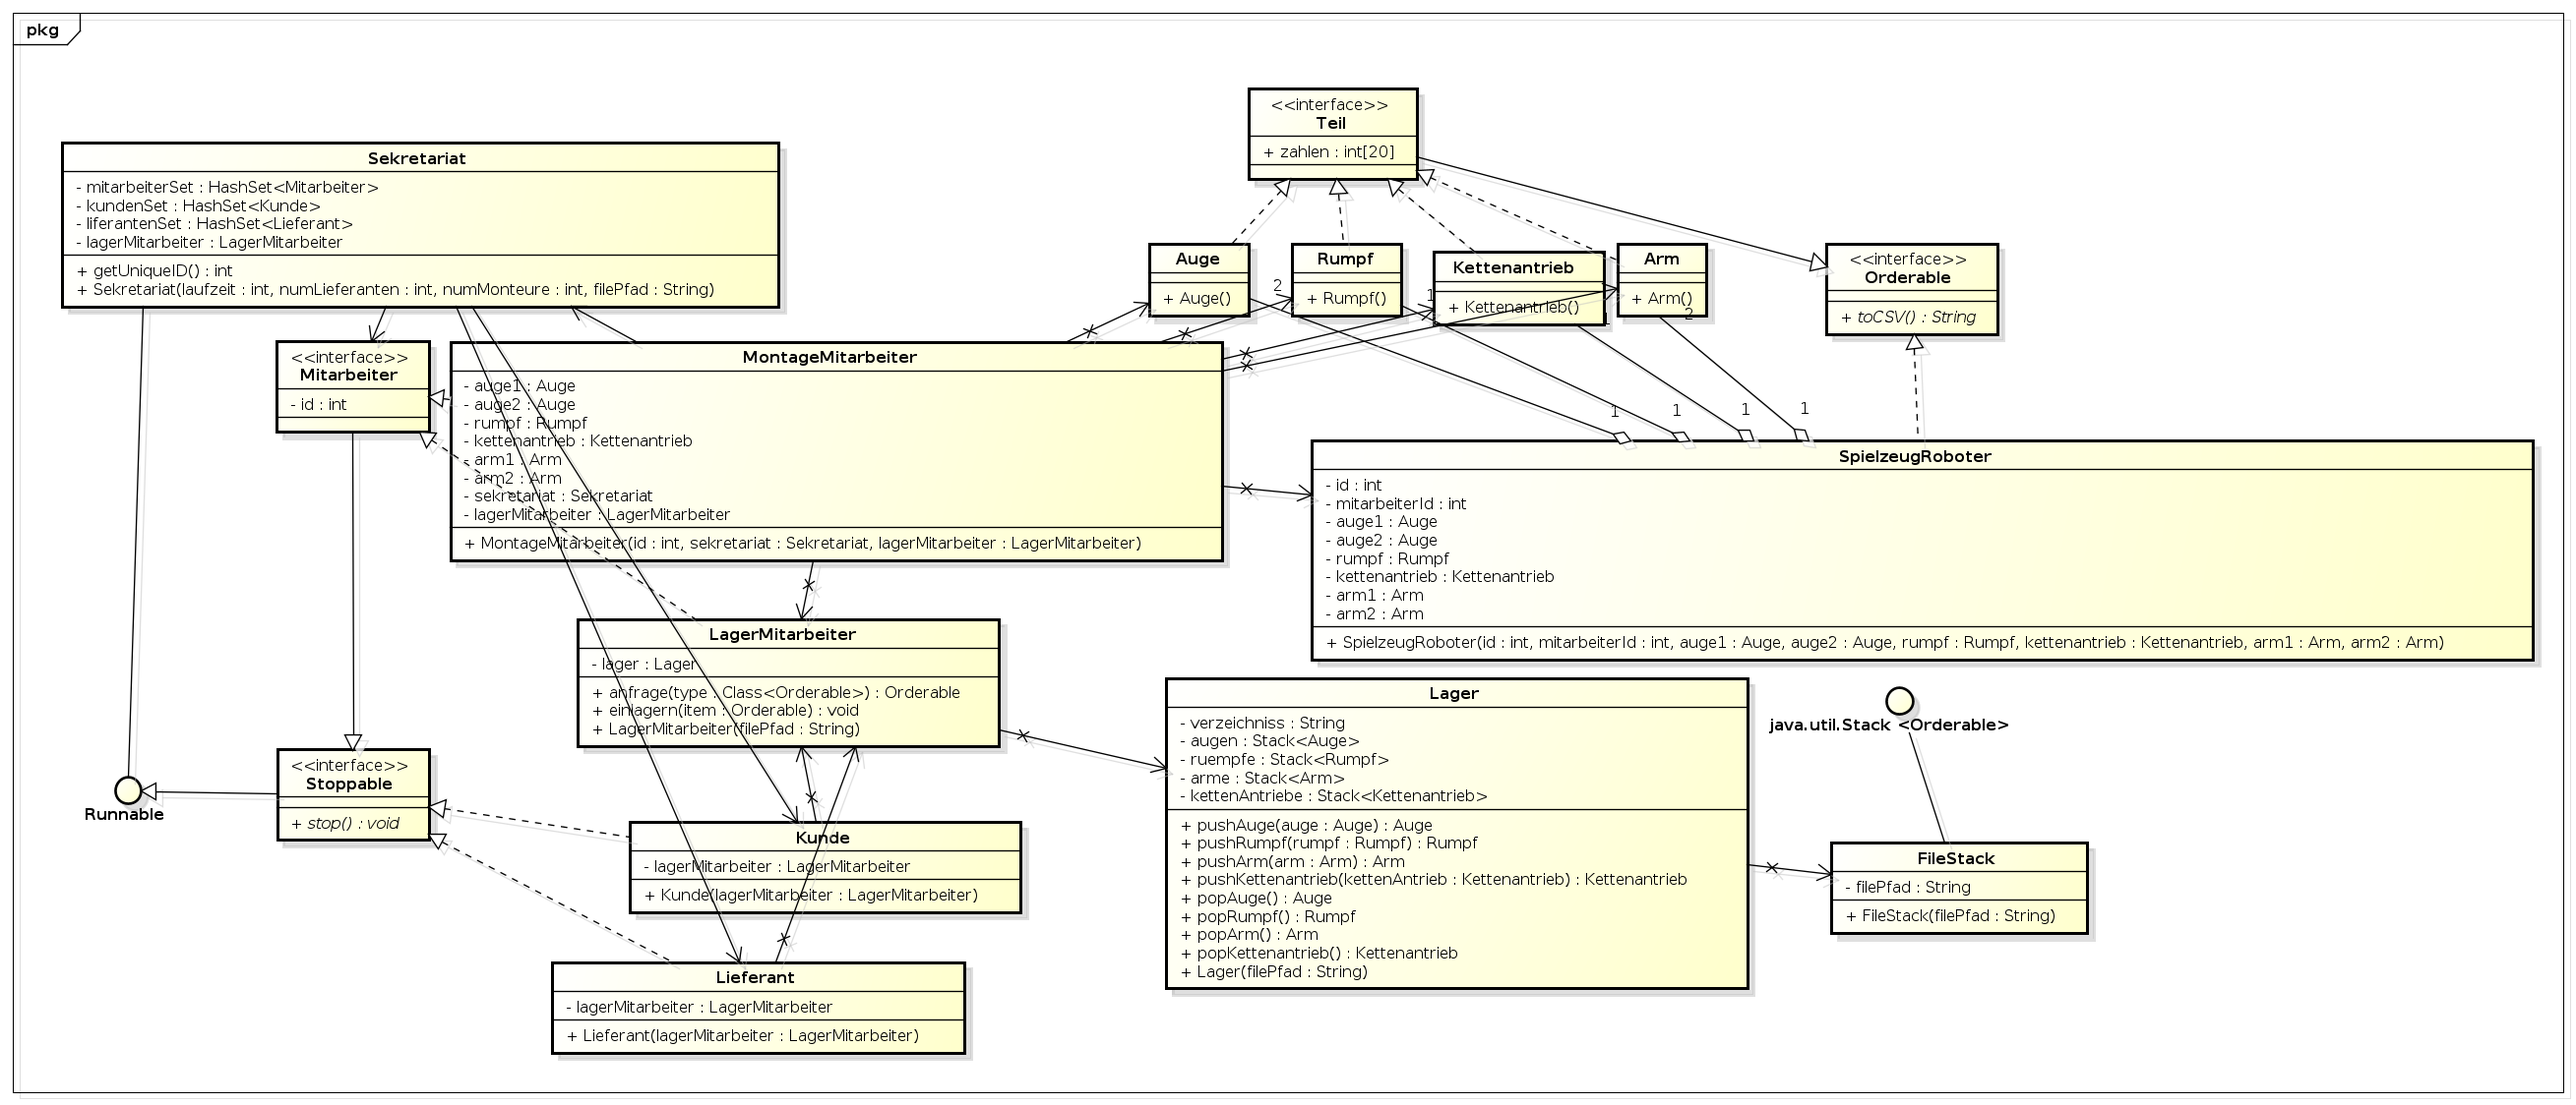
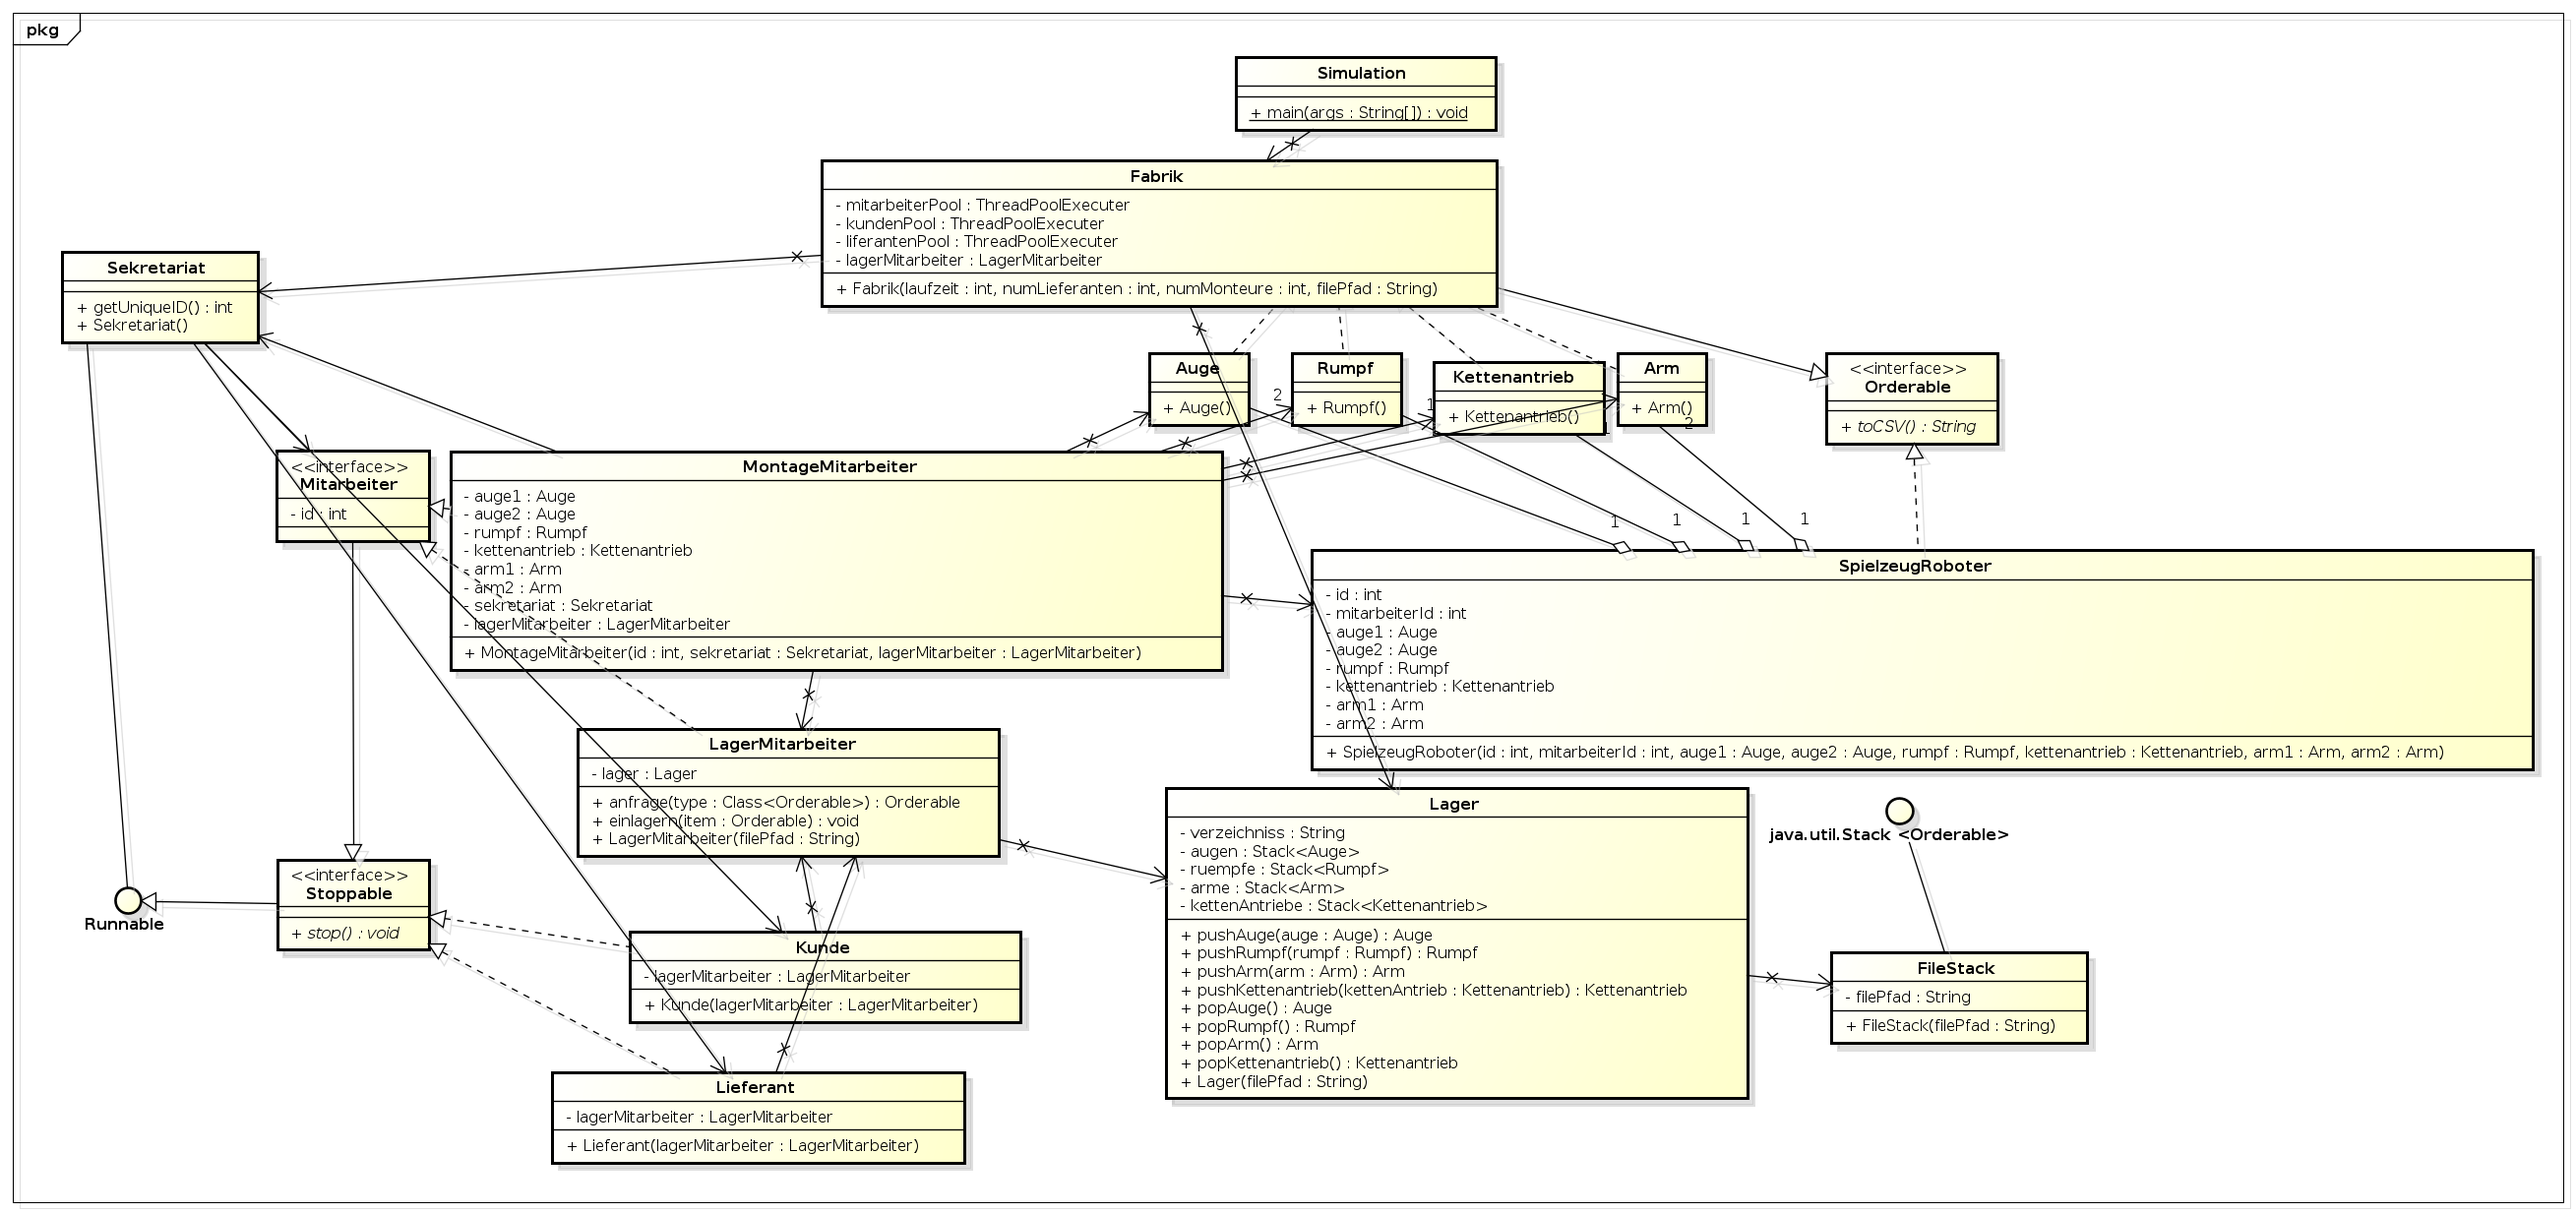
Fabrik und Simulation hinzugefügt

Changed region(s): [[0.0, 0.0, 0.9901, 0.9653], [0.0309, 0.6539, 0.1856, 0.8096], [0.6807, 0.7473, 0.8354, 0.8719]]

diff --git a/src/tgm/sew/roboterfabrik/Fabrik.java b/src/tgm/sew/roboterfabrik/Fabrik.java
@@ -1,0 +1,23 @@
+package tgm.sew.roboterfabrik;
+
+import java.util.concurrent.ThreadPoolExecuter;
+
+public class Fabrik {
+
+	private ThreadPoolExecuter mitarbeiterPool;
+
+	private ThreadPoolExecuter kundenPool;
+
+	private ThreadPoolExecuter liferantenPool;
+
+	private LagerMitarbeiter lagerMitarbeiter;
+
+	private Sekretariat sekretariat;
+
+	private Lager lager;
+
+	public Fabrik(int laufzeit, int numLieferanten, int numMonteure, String filePfad) {
+
+	}
+
+}

diff --git a/src/tgm/sew/roboterfabrik/Simulation.java b/src/tgm/sew/roboterfabrik/Simulation.java
@@ -1,0 +1,11 @@
+package tgm.sew.roboterfabrik;
+
+public class Simulation {
+
+	private Fabrik fabrik;
+
+	public static void main(String args) {
+
+	}
+
+}

diff --git a/zeitaufzeichnung_jklepp.rst b/zeitaufzeichnung_jklepp.rst
@@ -1,3 +1,4 @@
-Uml-Session	2013-09-20	16:00	18:40
-Uml-Session2	2013-09-26	13:30	14:30
-JavaDocs        2013-09-26      14:40   16:40
+Uml-Session		2013-09-20	16:00	18:40
+Uml-Session2		2013-09-26	13:30	14:30
+JavaDocs        	2013-09-26      14:40   16:40
+Andi IDE einrichten	2013-09-27	10:00	11:20
